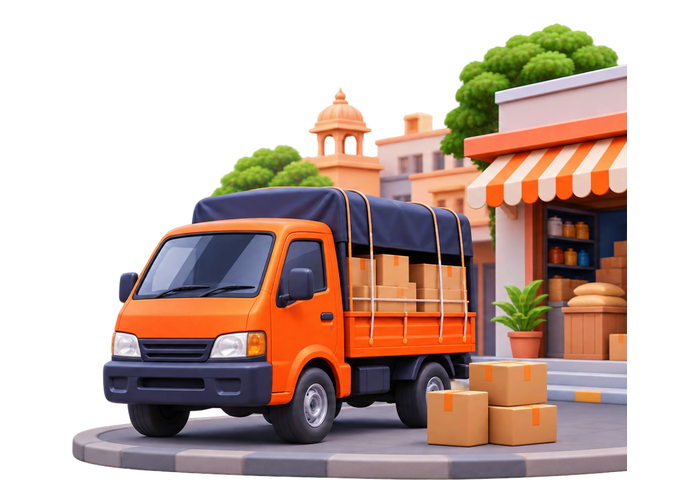
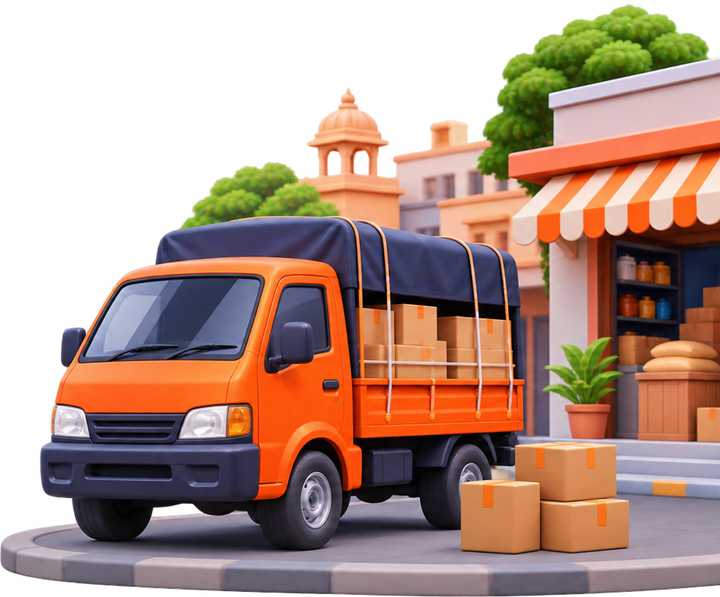
fix(customer-ui): home header art bigger and flush with the right screen edge

diff --git a/ShifterOnline/lib/screens/home/widgets/home_header.dart b/ShifterOnline/lib/screens/home/widgets/home_header.dart
@@ -111,8 +111,12 @@ class HomeHeader extends StatelessWidget {
                       ],
                     ),
                   ),
-                  const SizedBox(width: AppSpace.m),
-                  const V2Art(asset: 'assets/v2/home_header.png', placeholderLabel: 'H1', width: 120, height: 86),
+                  const SizedBox(width: AppSpace.s),
+                  // Bigger art that runs to the screen's right edge (the shop is cut there on purpose).
+                  Transform.translate(
+                    offset: const Offset(20, 0),
+                    child: const V2Art(asset: 'assets/v2/home_header.png', placeholderLabel: 'H1', width: 150, height: 124),
+                  ),
                 ],
               ),
             ],
